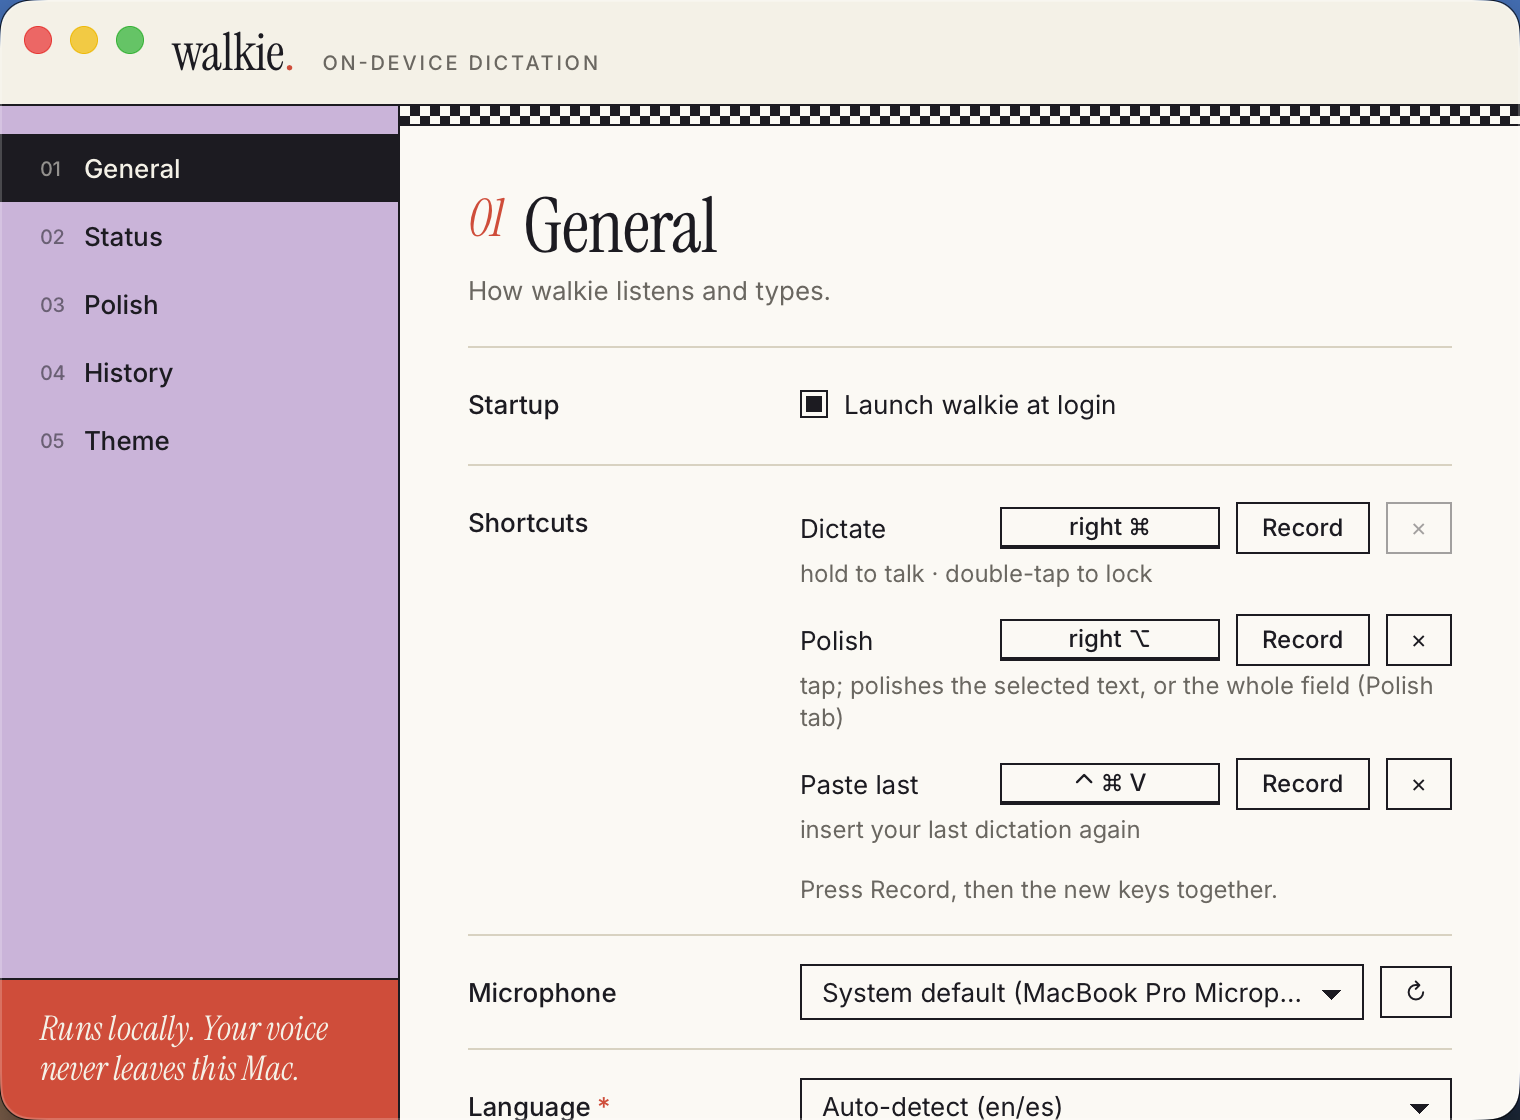
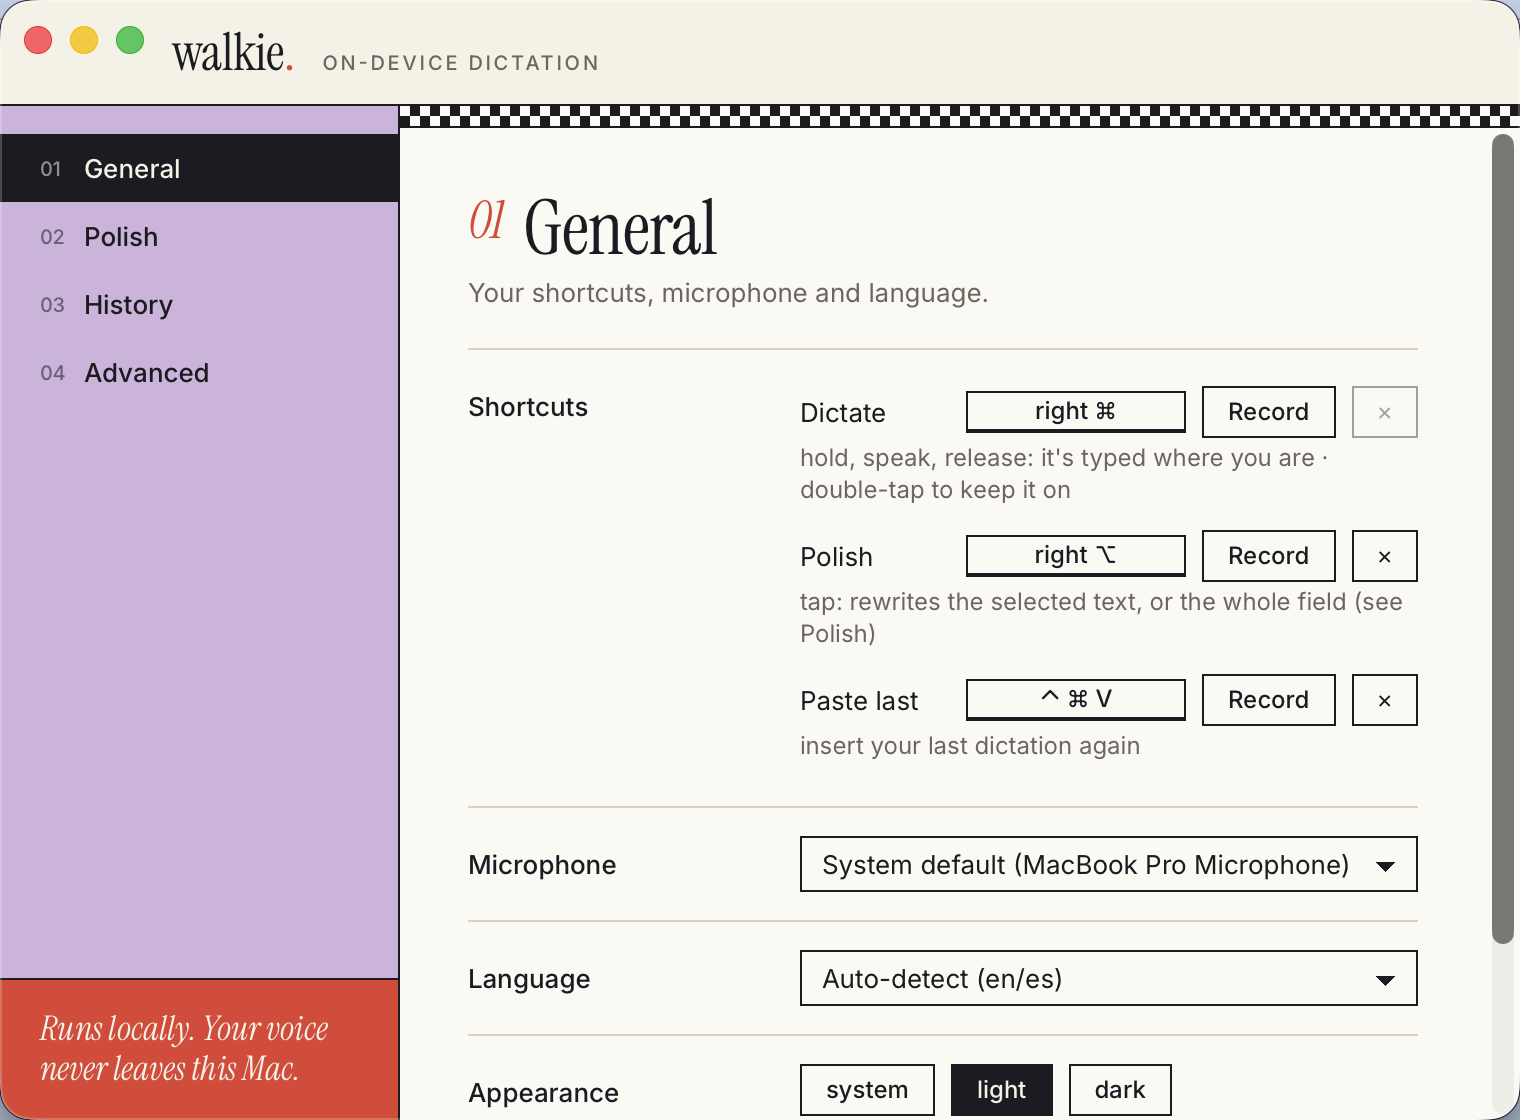
readme: current Settings screenshot, fonts in the license note

diff --git a/e2e/tests/app_ui.rs b/e2e/tests/app_ui.rs
@@ -175,7 +175,7 @@ fn settings_window_drags_by_its_top_strip_and_desk() {
     let _t = begin("settings_window_drags_by_its_top_strip_and_desk");
     let app = settings("General", None);
     for (what, at) in [
-        // right of the WALKIE.OS1 chip, level with the traffic lights
+        // right of the wordmark, level with the traffic lights
         ("top strip", (300.0, 20.0)),
         // the desk between the Menu and About windows
         ("desk", (80.0, 300.0)),

diff --git a/README.md b/README.md
@@ -36,8 +36,8 @@ The tray icon is gray when idle, red while recording and amber while it works.
 
 ## Settings
 
-Open walkie again (or pick Settings… in the tray) for a small desktop of
-windows. Every change saves itself.
+Open walkie again (or pick Settings… in the tray). Every change saves
+itself.
 
 - **General**: the shortcuts, microphone, language, appearance (Light, Dark
   or System) and launch at login.
@@ -142,5 +142,5 @@ and push to `main`, and uploads a `Walkie.app` build for each push to `main`.
 
 ## License
 
-MIT, see [LICENSE](LICENSE). The bundled Departure Mono font is under the SIL Open Font License
-([its license](crates/walkie-app/ui/src/lib/fonts/DepartureMono-LICENSE.txt)).
+MIT, see [LICENSE](LICENSE). The bundled fonts, Inter and Instrument Serif, are under the SIL
+Open Font License.
